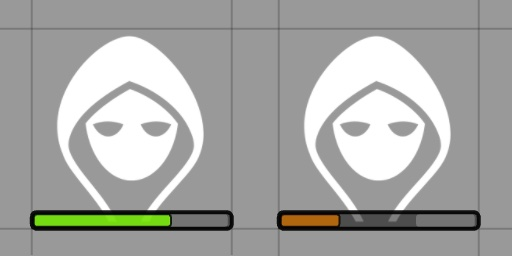
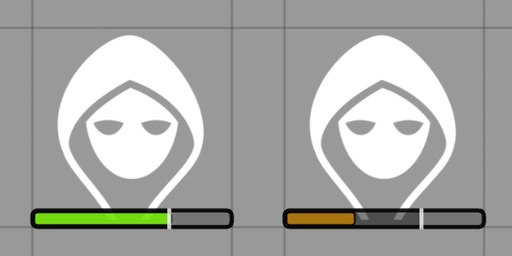
Update manifest, changelog, and readme image

diff --git a/changelog.md b/changelog.md
@@ -1,5 +1,10 @@
 # Changelog
 
+# 1.0.3
+ - Improved legibility of negative max HP adjustments
+ - Fixed bug when max HP is negative
+ - Fixed bug causing max HP bar to be drawn in the wrong position when temp HP exceeds max
+
 # 1.0.2
  - Fix compatibility issue with [Sky's Alternate D&D 5e Character Sheet](https://github.com/Sky-Captain-13/foundry/tree/master/alt5e) (thanks Jace Bobius#8094)
 
